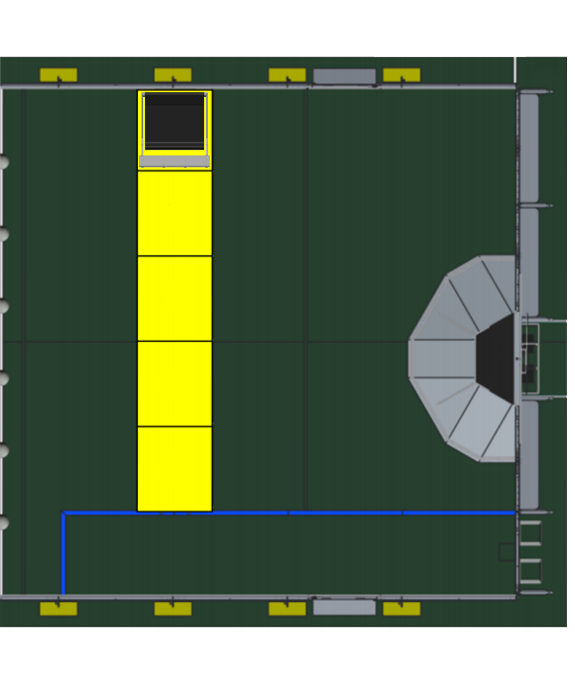
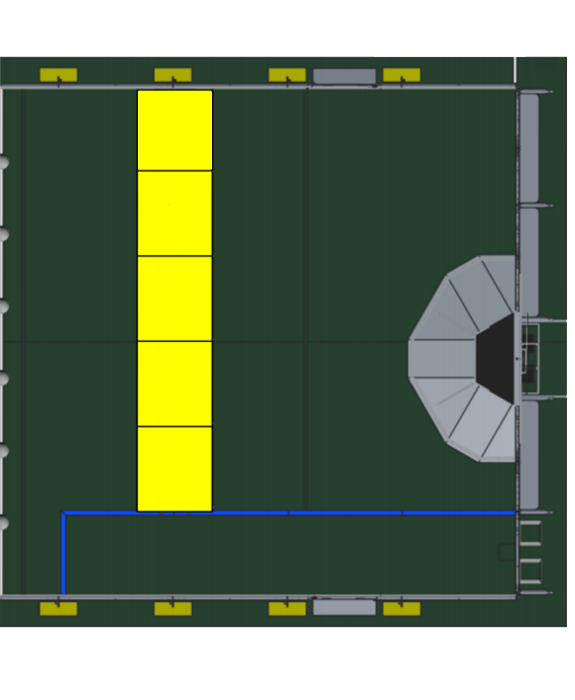
Worked on updating to server.

Changed region(s): [[0.2365, 0.12, 0.3843, 0.24]]

diff --git a/WebContent/js/teleop.js b/WebContent/js/teleop.js
@@ -218,8 +218,28 @@ var robot = function(teamNumber, position){
 				defensePositions.push(new defense(image, {x:defense3xPosition, y:defense3yPosition, width:defense3width, height:defense3height}, category, defense3name));
 			}
 		}
-		defensePositions.push(new defense())
-		
+		if (side != "Near")
+		{
+			if (alliance != "Red")
+			{
+				defensePositions.push(new defense(document.getElementById("lowBar"), {x:137, y:91, width:74, height:79}, 0, "Low Bar"));
+			}
+			else
+			{
+				defensePositions.push(new defense(document.getElementById("lowBar"), {x:137, y:91, width:73, height:77}, 0, "Low Bar"));
+			}
+		}
+		else
+		{
+			if (alliance != "Red")
+			{
+				defensePositions.push(new defense(document.getElementById("lowBar"), {x:364, y:533, width:73, height:77}, 0, "Low Bar"));
+			}
+			else
+			{
+				defensePositions.push(new defense(document.getElementById("lowBar"), {x:363, y:531, width:74, height:79}, 0, "Low Bar"));
+			}
+		}		
 		defense1Path = new Path2D();
 		defense2Path = new Path2D();
 		defense3Path = new Path2D();
@@ -245,6 +265,10 @@ var robot = function(teamNumber, position){
 			{
 				defense4Path.rect(defenseToParse.position.x, defenseToParse.position.y, defenseToParse.position.width, defenseToParse.position.height);
 			}
+			else if (i == 4)
+			{
+				lowBarPath.rect(defenseToParse.position.x, defenseToParse.position.y, defenseToParse.position.width, defenseToParse.position.height);
+			}
 		}
 		
 		failedPath = new Path2D();
@@ -258,12 +282,10 @@ var robot = function(teamNumber, position){
 			if (alliance != "Red")
 			{
 				arena = document.getElementById("redArenaFlippedBG");
-				lowBarPath.rect(137, 91, 74, 85);
 			}
 			else
 			{
 				arena = document.getElementById("blueArenaFlippedBG");
-				lowBarPath.rect(138, 92, 74, 85);
 			}
 			ctx.drawImage(arena, 0, 0);
 		}
@@ -272,12 +294,10 @@ var robot = function(teamNumber, position){
 			if (alliance != "Red")
 			{
 				arena = document.getElementById("redArenaBG");
-				lowBarPath.rect(364, 533, 74, 85);
 			}
 			else
 			{
 				arena = document.getElementById("blueArenaBG");
-				lowBarPath.rect(363, 531, 74, 85);
 			}
 			ctx.drawImage(arena, 0, 0);
 		}
@@ -306,7 +326,9 @@ var robot = function(teamNumber, position){
 				else if (context.isPointInPath(defense3Path, x, y))
 				{
 					selectedDefense = defensePositions[2];
+					ctx.globalAlpha = 0.5;
 					ctx.fill(defense3Path);
+					ctx.globalAlpha = 1.0;
 				}
 				else if (context.isPointInPath(defense4Path, x, y))
 				{
@@ -315,7 +337,8 @@ var robot = function(teamNumber, position){
 				}
 				else if (context.isPointInPath(lowBarPath, x, y))
 				{
-					selectedDefense = 
+					selectedDefense = defensePositions[4];
+					ctx.fill(lowBarPath);
 				}
 				else if (context.isPointInPath(failedPath, x, y))
 				{
